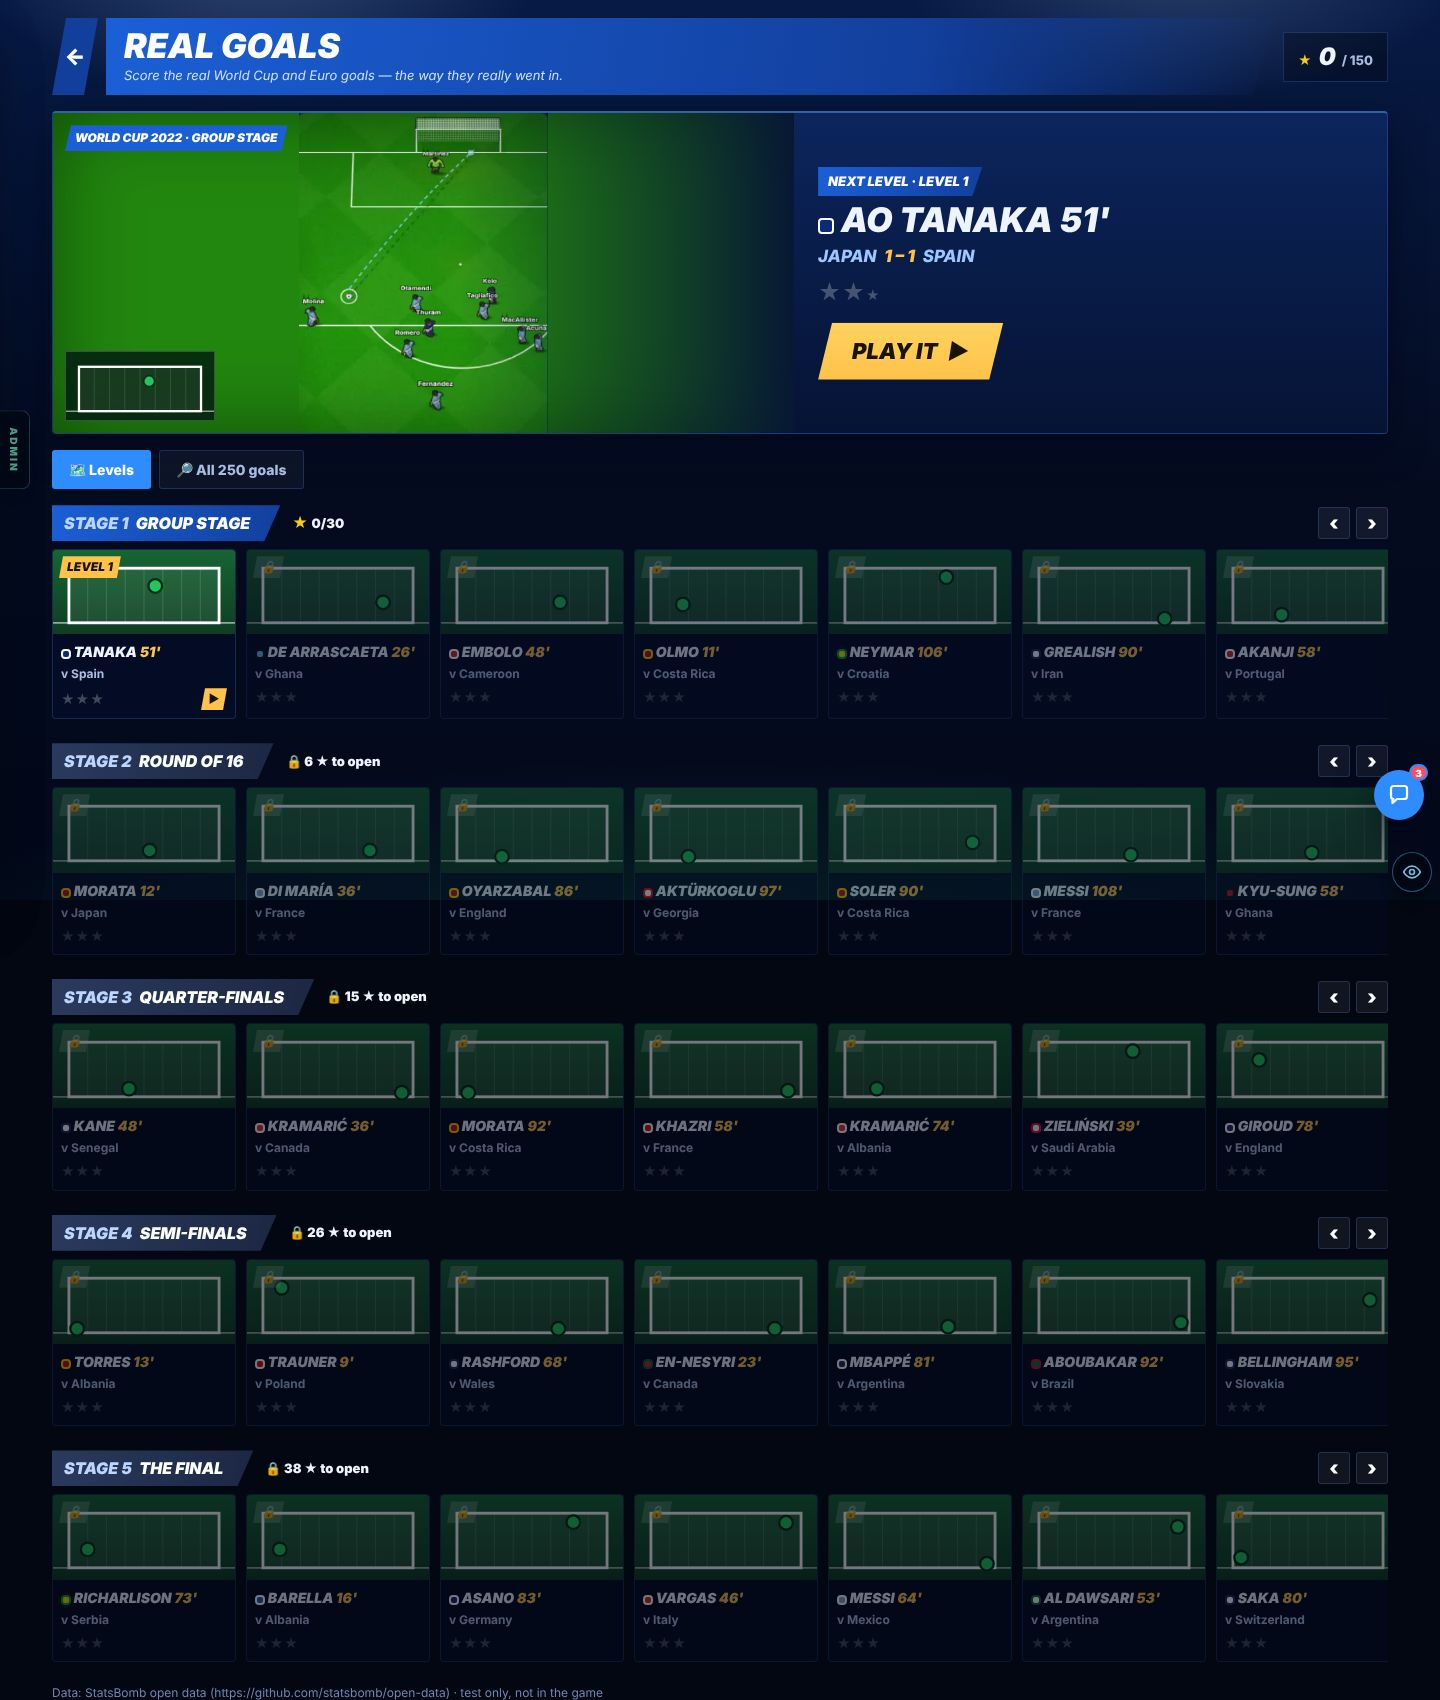
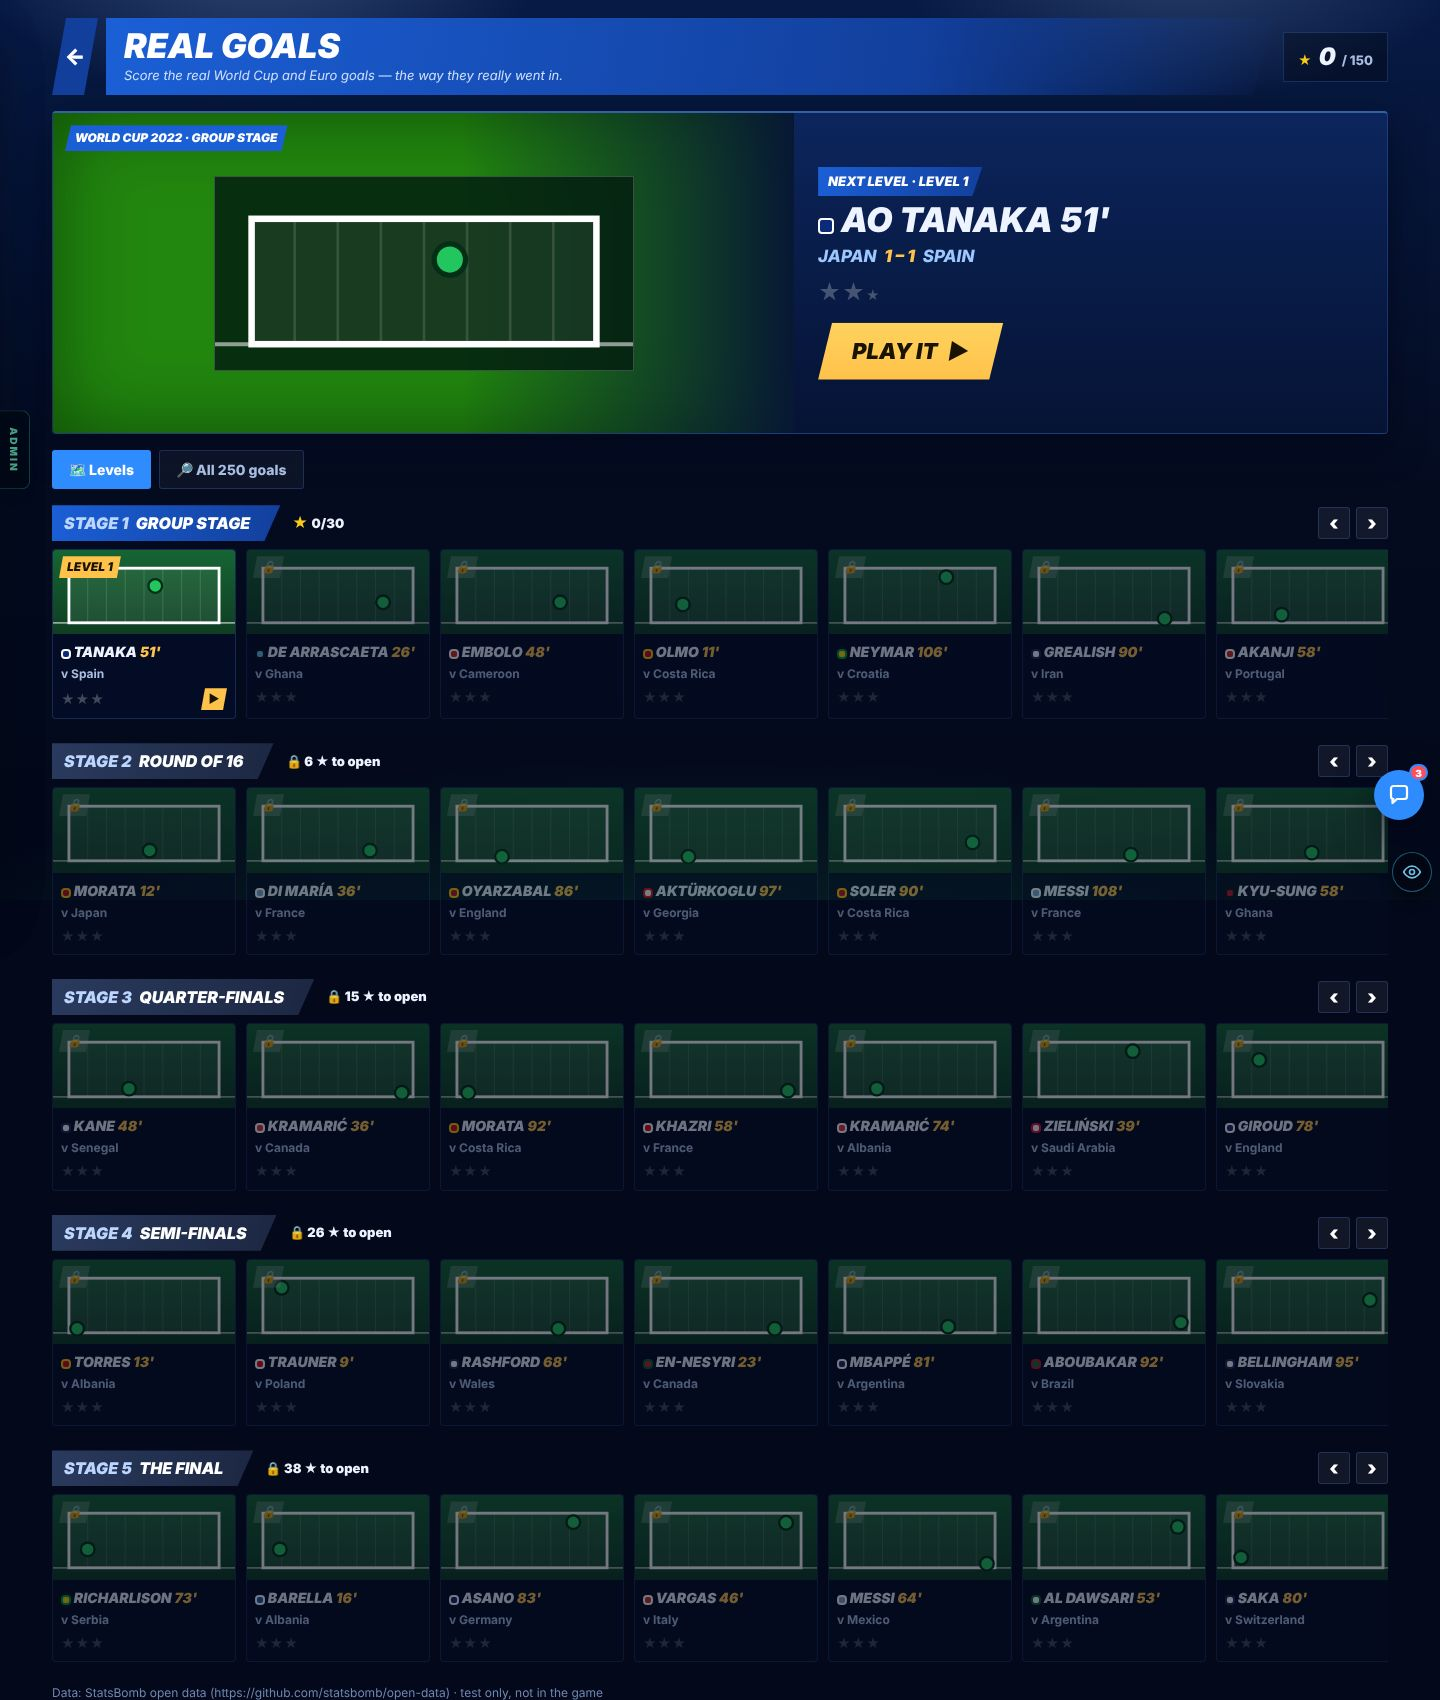
Real Goals: the big card draws its own goal-mouth instead of a fixed still from another match
Claude-Session: https://claude.ai/code/session_016A37hskL16Hka4FUQjF4xC

Changed region(s): [[0.0312, 0.0624, 0.4375, 0.2494]]

diff --git a/app/star-real-goals-dev/real-goals.css b/app/star-real-goals-dev/real-goals.css
@@ -1,7 +1,7 @@
 /* Real Goals, option 2 (Harry, 19 Oct 2026: "option 2 … these are functional
    first"): a featured hero (the next level) with PLAY IT, then each stage as a
    TV rail of level cards. The playing screen itself is unchanged.
-   Hero picture: public/admin/real-goals/featured.webp (a real still of the match). */
+   Hero picture: this goal's own goal-mouth drawing, big (a fixed still showed the wrong match). */
 .rg { display: flex; flex-direction: column; gap: 16px; min-width: 0; }
 .rg-total { display: flex; align-items: baseline; gap: 6px; padding: 6px 14px; background: rgba(0, 0, 0, 0.3); border: 1px solid var(--bc-line); }
 .rg-total b { font-size: 24px; font-weight: 900; font-style: italic; }
@@ -15,7 +15,8 @@
 .rg-hpic::after { content: ""; position: absolute; inset: 0; background: linear-gradient(90deg, transparent 55%, rgba(6, 20, 54, 0.95)); }
 .rg-hbadge { position: absolute; z-index: 1; top: 12px; left: 12px; padding: 4px 10px; font-size: 12px; font-weight: 900; font-style: italic; text-transform: uppercase;
   color: #fff; background: var(--bc-blue); clip-path: polygon(6px 0, 100% 0, calc(100% - 6px) 100%, 0 100%); }
-.rg-hpic .rg-mouth { position: absolute; z-index: 1; left: 12px; bottom: 12px; width: 150px; background: rgba(4, 30, 16, 0.85); border: 1px solid rgba(255, 255, 255, 0.2); }
+.rg-hpic { display: grid; place-items: center; }
+.rg-hpic .rg-mouth { position: relative; z-index: 1; width: min(78%, 420px); background: rgba(4, 30, 16, 0.85); border: 1px solid rgba(255, 255, 255, 0.2); }
 .rg-hinfo { padding: 22px 24px; display: flex; flex-direction: column; justify-content: center; gap: 6px; min-width: 0; }
 .rg-hlabel { align-self: flex-start; padding: 5px 14px 5px 10px; font-size: 13px; font-weight: 900; font-style: italic; text-transform: uppercase; color: #fff;
   background: linear-gradient(100deg, var(--bc-blue), var(--bc-blue2)); clip-path: polygon(0 0, 100% 0, calc(100% - 10px) 100%, 0 100%); }
@@ -85,7 +86,7 @@
 
 @media (max-width: 760px) {
   .rg-hero { grid-template-columns: minmax(0, 1fr); }
-  .rg-hpic { min-height: 220px; background-size: cover; background-position: center 20%; }
+  .rg-hpic { min-height: 200px; }
   .rg-hpic::after { background: linear-gradient(180deg, transparent 60%, rgba(6, 20, 54, 0.95)); }
   .rg-hinfo { padding: 14px 14px 16px; }
   .rg-playit { align-self: stretch; justify-content: center; }

diff --git a/app/star-real-goals-dev/page.tsx b/app/star-real-goals-dev/page.tsx
@@ -357,7 +357,7 @@ function Hero({ level, progress, onPlay }: { level: Level; progress: Progress; o
   const p = progress[g.id];
   return (
     <section className="rg-hero" data-hero={g.id}>
-      <div className="rg-hpic" style={{ backgroundImage: "url(/admin/real-goals/featured.webp)" }}>
+      <div className="rg-hpic">
         <span className="rg-hbadge">{g.x.comp} · {g.x.stage}</span>
         <MiniMouth goal={g} />
       </div>

diff --git a/docs/plans/2026-10-19/broadcast-builder-brief.md b/docs/plans/2026-10-19/broadcast-builder-brief.md
@@ -23,7 +23,8 @@ Rebuild ONE Road to Ballon d'Or admin/test page in the picked layout, on the sha
 3. "Toggle" picks (e.g. options 1 and 2 as a toggle) = a `Pill` pair at the top that switches between two layouts
    of the same functions. Remember the choice in localStorage (try/catch).
 4. Fits a computer (1440×900) and a phone (390×844); no sideways scroll; text ≥ 12px on a phone.
-5. No Higgsfield or any image generation. Pictures on cards come from real screenshots you take, as small
+5. No Higgsfield or any image generation. A picture must show the exact thing it is labelled with (a fixed still of one
+   match on a card that changes is wrong). Pictures on cards come from real screenshots you take, as small
    webp files in `public/admin/<page-key>/`.
 6. Keep `PageGuide` (the ⓘ). Update that page's entry in `lib/adminGuides.ts` if a button's name or place changed.
 7. Delete the page's url from `NOT_YET` in `scripts/admin-look-guard.mjs`.
